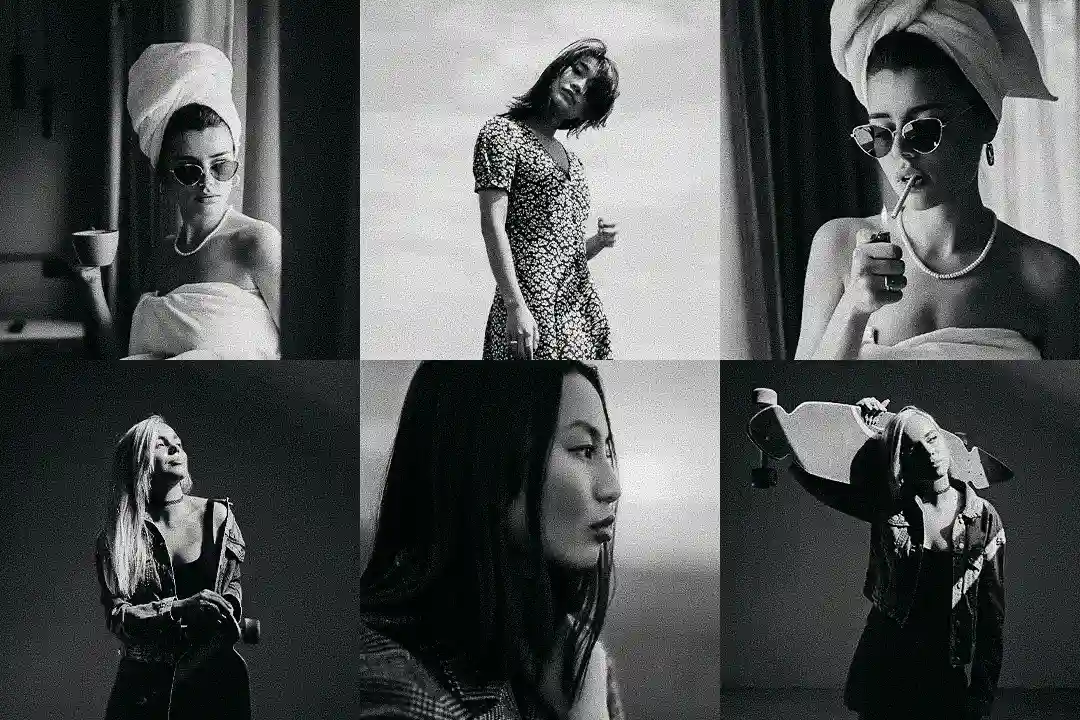
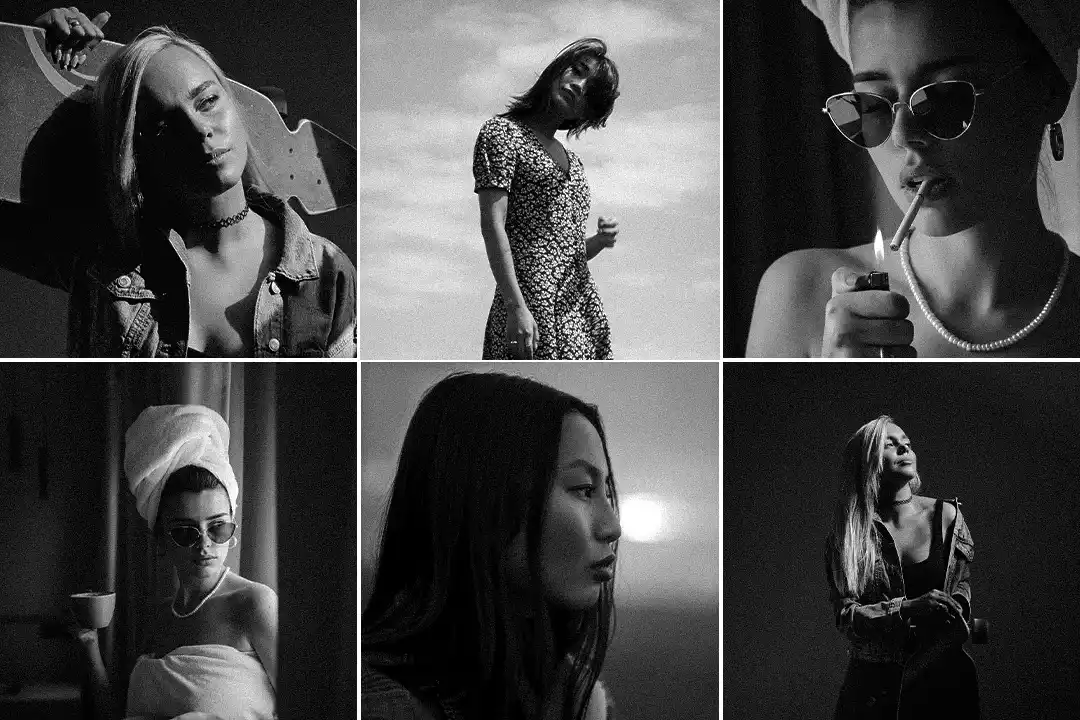
imagens

diff --git a/index.html b/index.html
@@ -133,9 +133,9 @@
       <div class="cards">
         <!-- 1 -->
         <article class="card">
-          <h3 class="card__title">Dark Mood</h3>
-          <p class="card__count badge">06 presets exclusivos</p>
-          <p class="card_description">Presets com tons escuros, contraste marcante e uma pegada mais dramática.</p>
+          <h3 class="card__title">Beach Day</h3>
+          <p class="card__count badge">10 presets exclusivos</p>
+          <p class="card_description">Uma coleção de presets pensada para quem transforma dias comuns na praia em imagens memoráveis.</p>
 
           <div class="ba ba--card" data-start="50" aria-label="Comparador de imagem interativo">
             <div class="ba__labels">
@@ -152,7 +152,7 @@
             <button class="ba__knob" aria-label="Arrastar para comparar"></button>
           </div>
 
-          <img class="card__preview-grid" src="img/dark-preview.webp" alt="Exemplos de fotos com o efeito aplicado"
+          <img class="card__preview-grid" src="img/beach-preview.webp" alt="Exemplos de fotos com o efeito aplicado"
             loading="lazy" decoding="async" />
         </article>
 
@@ -161,7 +161,7 @@
         <article class="card">
           <h3 class="card__title">Golden Sunset</h3>
           <p class="card__count badge">10 presets exclusivos</p>
-          <p class="card_description">Presets com tons dourados, luz suave e aquele brilho de fim de tarde.</p>
+          <p class="card_description">Presets criados para capturar o calor da luz dourada e a beleza silenciosa do fim do dia.</p>
 
           <div class="ba ba--card" data-start="50" aria-label="Comparador de imagem interativo">
             <div class="ba__labels">
@@ -210,8 +210,8 @@
         <!-- 4 -->
         <article class="card">
           <h3 class="card__title">Shades of Silence</h3>
-          <p class="card__count badge">15 presets exclusivos</p>
-          <p class="card_description">Uma coleção de presets preto e branco profundo, com contrastes suaves e textura emocional. Ideal para retratos, cenas introspectivas e momentos que pedem mais do que cor: pedem sentimento.</p>
+          <p class="card__count badge">14 presets exclusivos</p>
+          <p class="card_description">Uma coleção de presets preto e branco, ideal para cenas introspectivas quando o essencial é mais que suficiente.</p>
 
           <div class="ba ba--card" data-start="50" aria-label="Comparador de imagem interativo">
             <div class="ba__labels">
